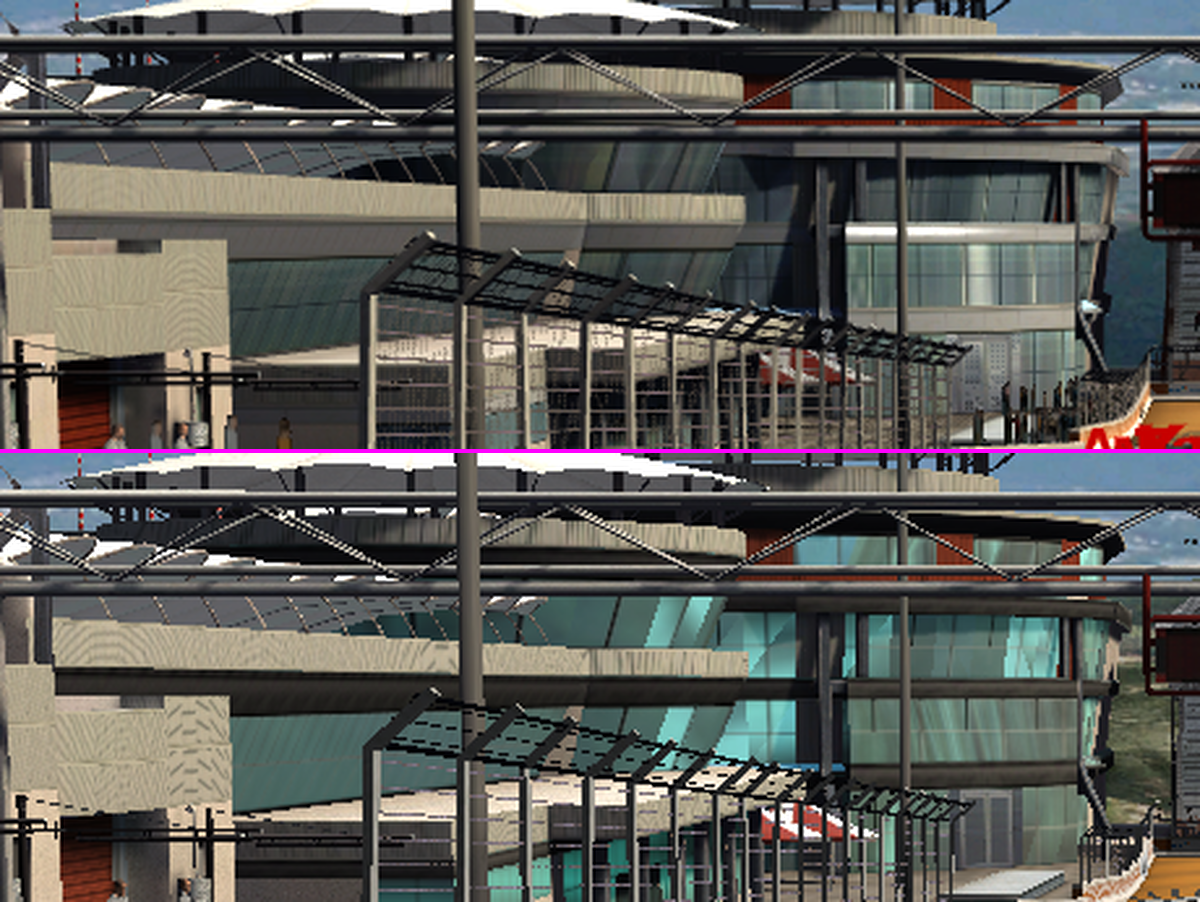
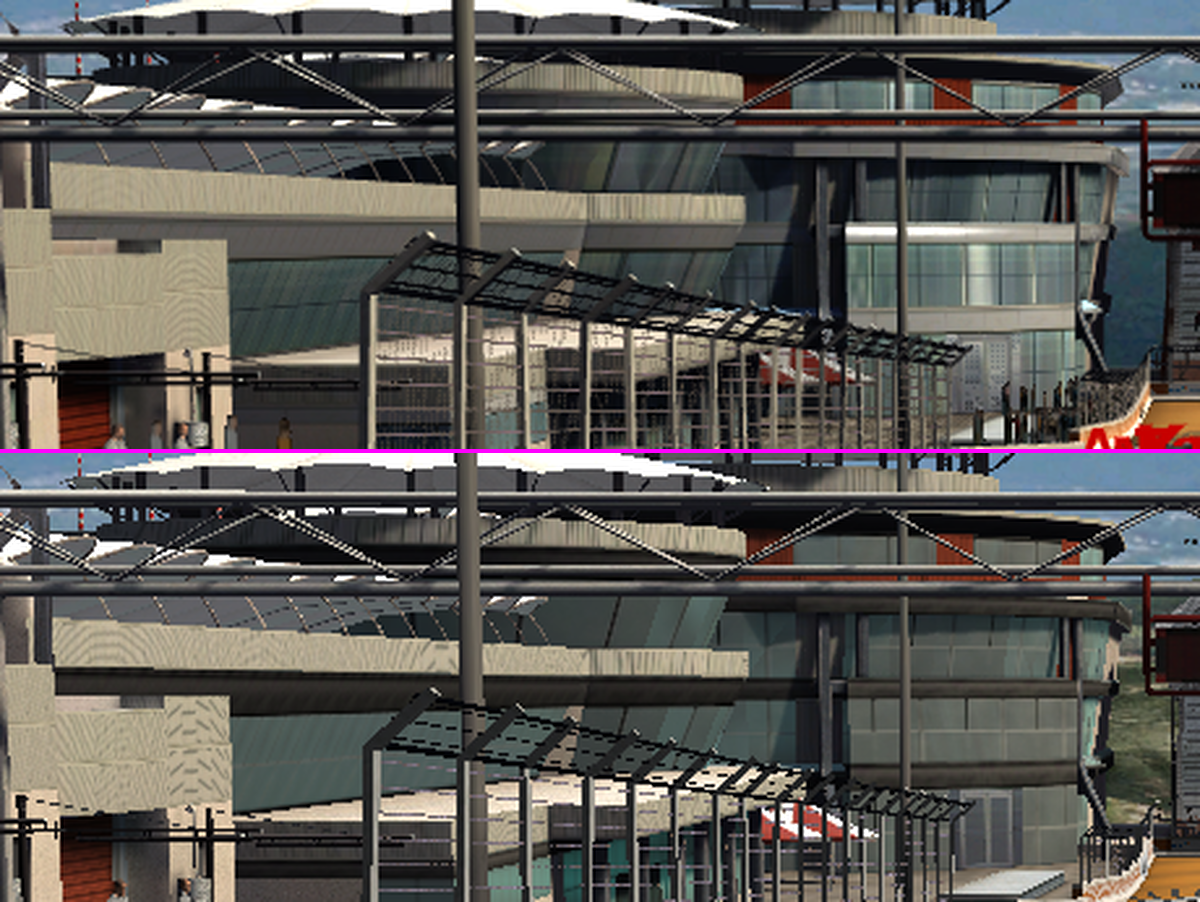
Window glass fitted to the game's pixels: dark tinted body + Fresnel cube reflection

diff --git a/M1.md b/M1.md
@@ -323,7 +323,8 @@ more saturated, the asphalt has less grain.
   - Window glass (`diff_spec_refl_norm_4` / `diff_spec_refl_3`, disassembly of ps f4e339d2): the base texture's alpha x
     P[0].x is the reflection amount, the reflection is the layout's **static environment cube** (`staticcarcubemap.xpr`,
     XPR2, 256 x 256 DXT5, decoded by `fm3_tex.load_xpr_cube`) tinted by P[2] (the office glass's teal (0.5, 1, 1)),
-    looked up with x mirrored; viewer `fm3_glass.gdshader`, gain 0.75 calibrated against the captured office windows
+    looked up with x mirrored; viewer `fm3_glass.gdshader`: glass = a dark tinted body (0.13) + Schlick-Fresnel reflection
+    (f0 0.15), least-squares fitted to the game's pixels of the captured office windows (error -25 %)
     ([`office-glass-vs-game.png`](m1/stage2-transforms/office-glass-vs-game.png): game above;
     [`pit-building-glass.png`](m1/stage2-transforms/pit-building-glass.png)).
   - Still approximate: road-edge / shoulder recipes (inferred), grass tufts lie flat, chain-link fences' UVs, the lake
